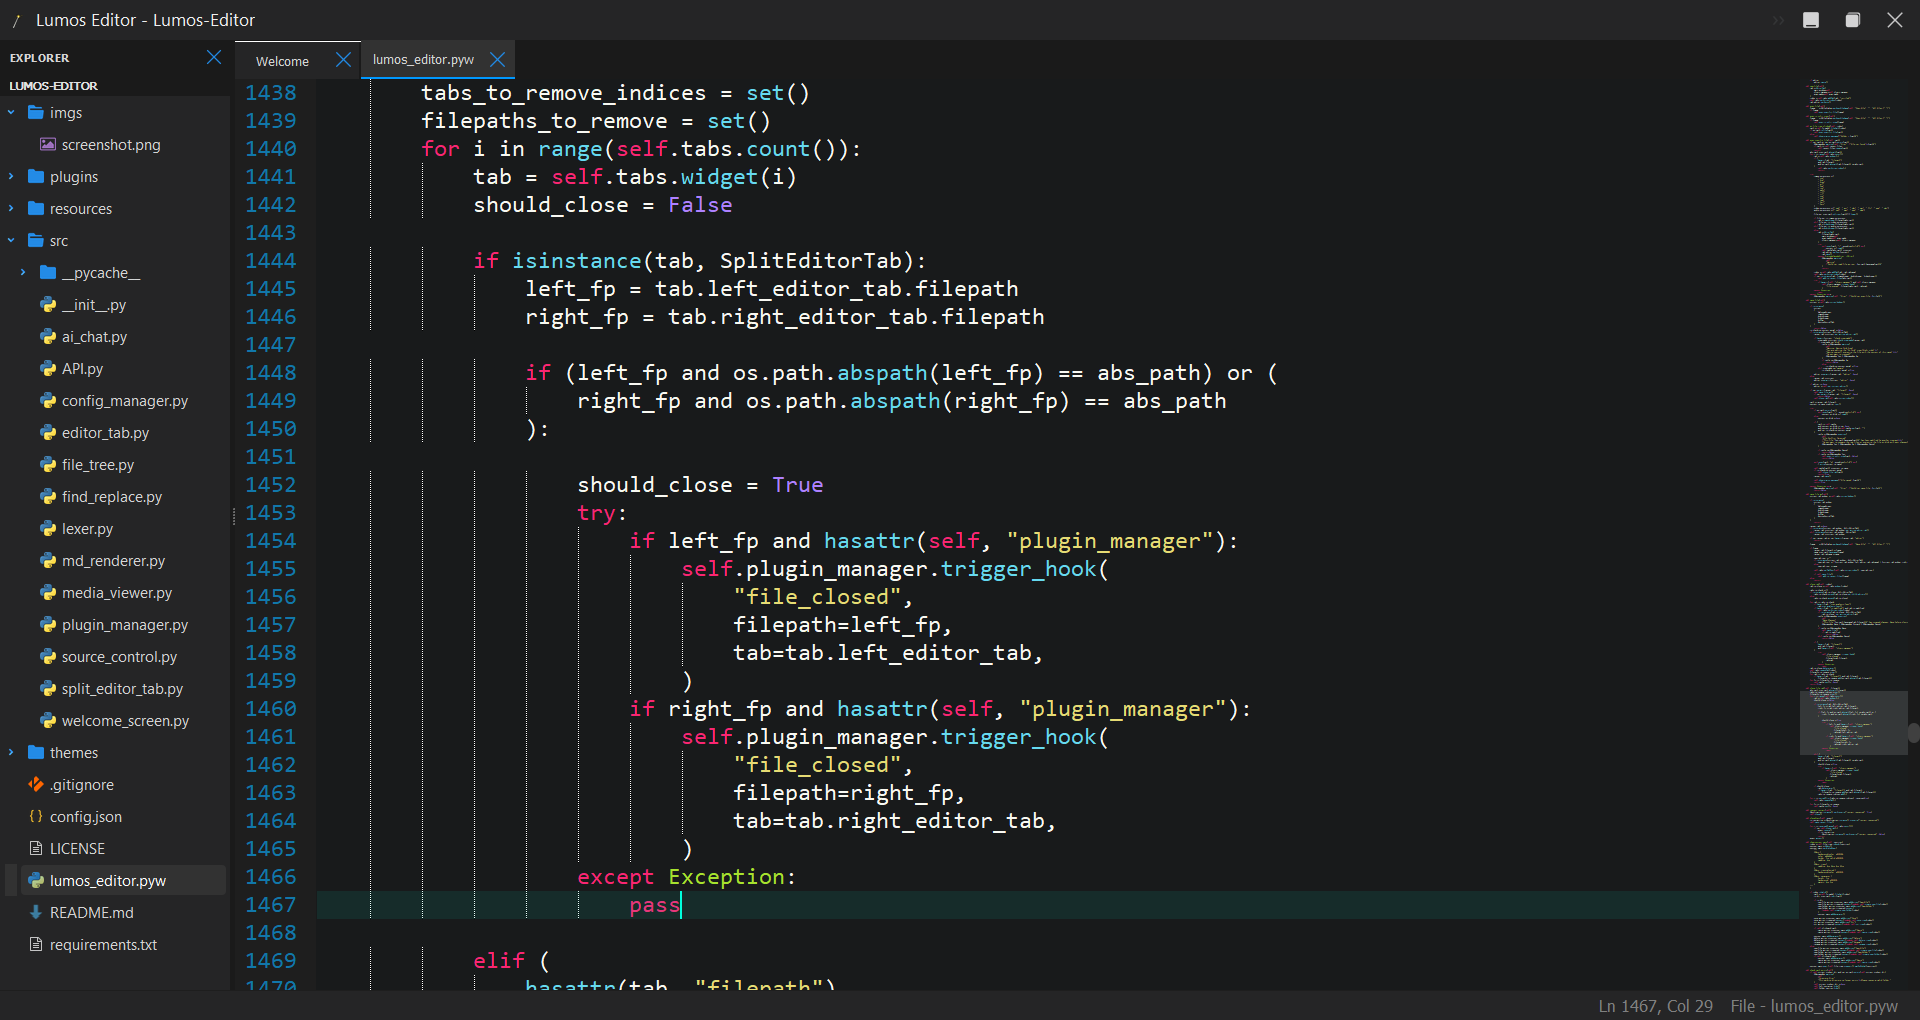
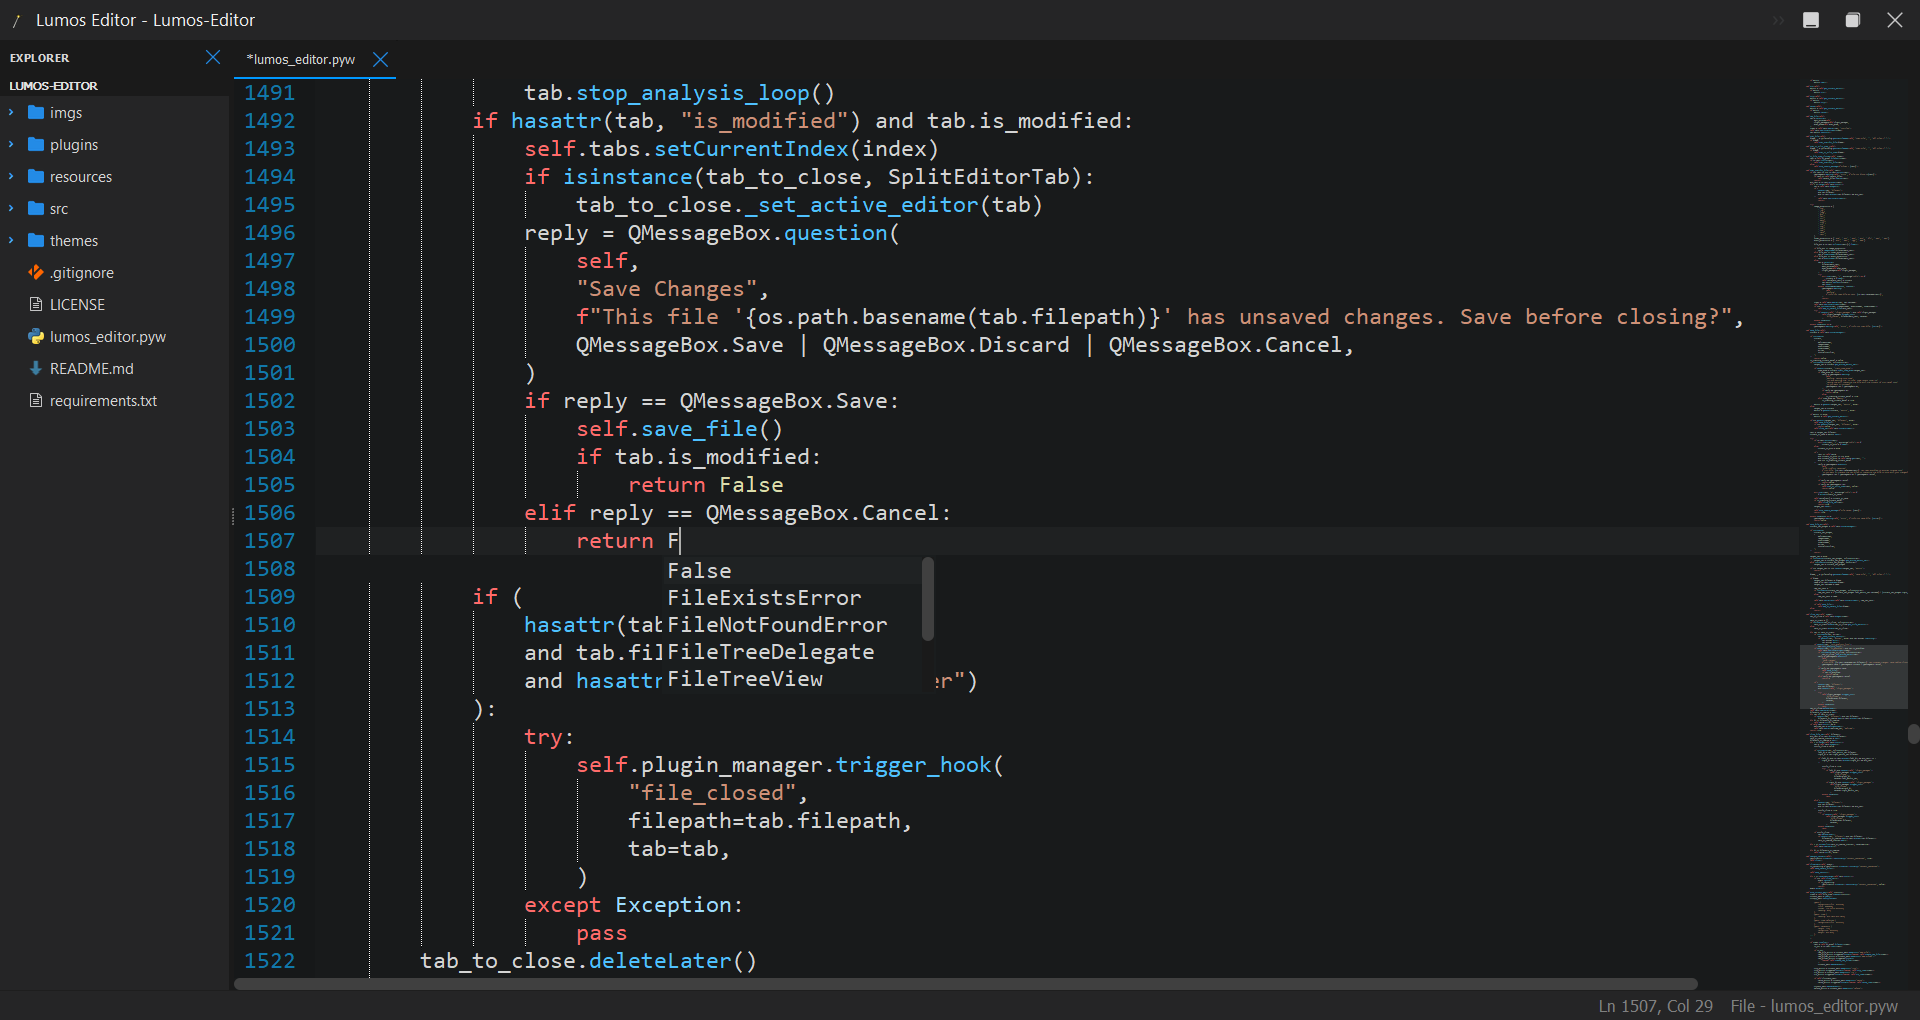
feat(lexer)

diff --git a/src/editor_tab.py b/src/editor_tab.py
@@ -708,18 +708,6 @@ class EditorTab(QWidget):
         self.editor.textChanged.connect(self.update_line_count)
         self.editor.setStyleSheet(
             """
-            QAbstractItemView {
-                background-color: #252526;
-                color: #d4d4d4;
-                border: None;
-                border-radius: 4px;
-                padding: 2px;
-                min-height: 28px;
-            }
-            QAbstractItemView::item:selected {
-                background-color: #323232;
-                color: #d4d4d4;
-            }
             QScrollBar:horizontal {
                 border: none;
                 background: #181a1b;
@@ -775,22 +763,20 @@ class EditorTab(QWidget):
         self.editor.setMarginsFont(font)
         self.editor.setMarginLineNumbers(0, True)
 
-        cursor_color = QColor("#00ffdd")
-        cursor_glow = QColor("#00ffdd")
-        cursor_glow.setAlpha(20)
 
+        cursor_color = QColor("#AEAFAD")
         self.editor.setCaretForegroundColor(cursor_color)
         self.editor.setCaretLineVisible(True)
         self.editor.setCaretWidth(2)
-        self.editor.setCaretLineBackgroundColor(cursor_glow)
 
-        selection_color = QColor("#00ffff")
-        selection_glow = QColor("#00ffff")
-        selection_glow.setAlpha(30)
+        cursor_line_bg = QColor(255, 255, 255, 8)
+        self.editor.setCaretLineBackgroundColor(cursor_line_bg)
 
-        self.editor.setSelectionBackgroundColor(selection_glow)
-        self.editor.setSelectionForegroundColor(selection_color)
+        selection_bg = QColor(255, 255, 255, 28)
+        self.editor.setSelectionBackgroundColor(selection_bg)
 
+        self.editor.SendScintilla(self.editor.SCI_SETSELFORE, False, 0)
+        
         self.editor.setAutoIndent(True)
         self.editor.setIndentationGuides(True)
         self.editor.setIndentationsUseTabs(False)

diff --git a/src/lexer.py b/src/lexer.py
@@ -2,6 +2,7 @@ import json
 import keyword
 import os
 import re
+from turtle import color
 from typing import TypedDict
 
 import jedi
@@ -139,6 +140,20 @@ class BaseLexer(QsciLexerCustom):
                 self.editor.setMarginsForegroundColor(
                     QColor(margin_color) if margin_color else bg_color.lighter(150)
                 )
+                self.editor.setStyleSheet(f"""
+                    QAbstractItemView {{
+                        background-color: {bg_color.lighter(110).name()};
+                        color: {self.color(self.DEFAULT).name()};
+                        border: None;
+                        border-radius: 4px;
+                        padding: 2px;
+                        min-height: 28px;
+                    }}
+                    QAbstractItemView::item:selected {{
+                        background-color: {bg_color.lighter(130).name()};
+                        color: {self.color(self.DEFAULT).name()};
+                    }}
+                """)
         else:
             self.setDefaultPaper(QColor("#181a1b"))
             self.editor.setMarginsBackgroundColor(QColor("#1e1e1e"))

diff --git a/README.md b/README.md
@@ -31,6 +31,8 @@ A modern, extensible code editor built with PyQt5, featuring syntax highlighting
 <img src="./imgs/screenshot1.png">
 <img src="./imgs/screenshot2.png">
 <img src="./imgs/screenshot3.png">
+<img src="./imgs/screenshot4.png">
+<img src="./imgs/screenshot5.png">
  
 ## Features
 
